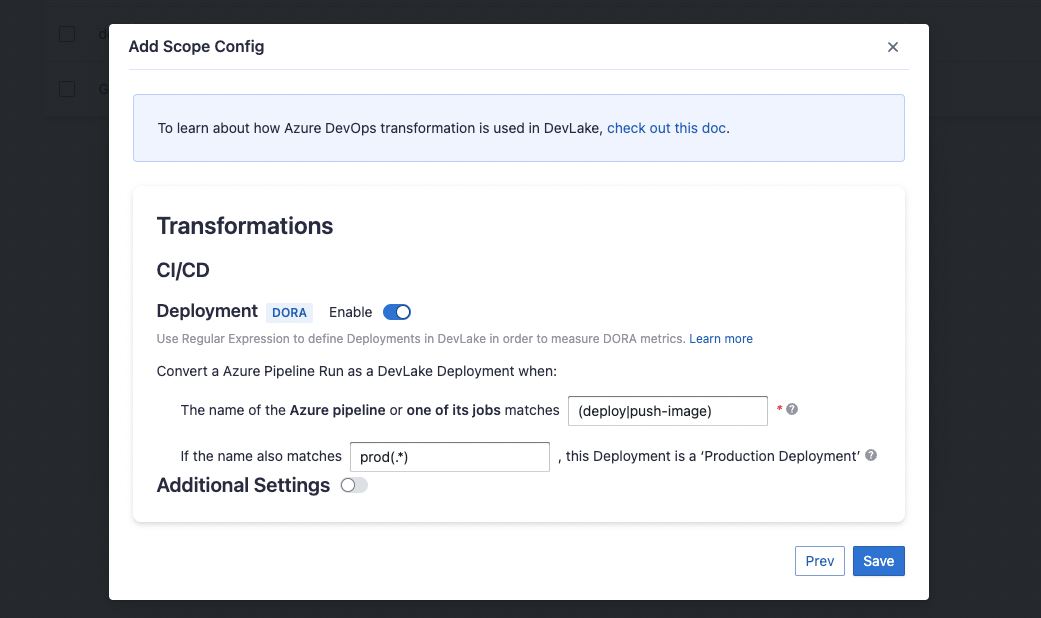
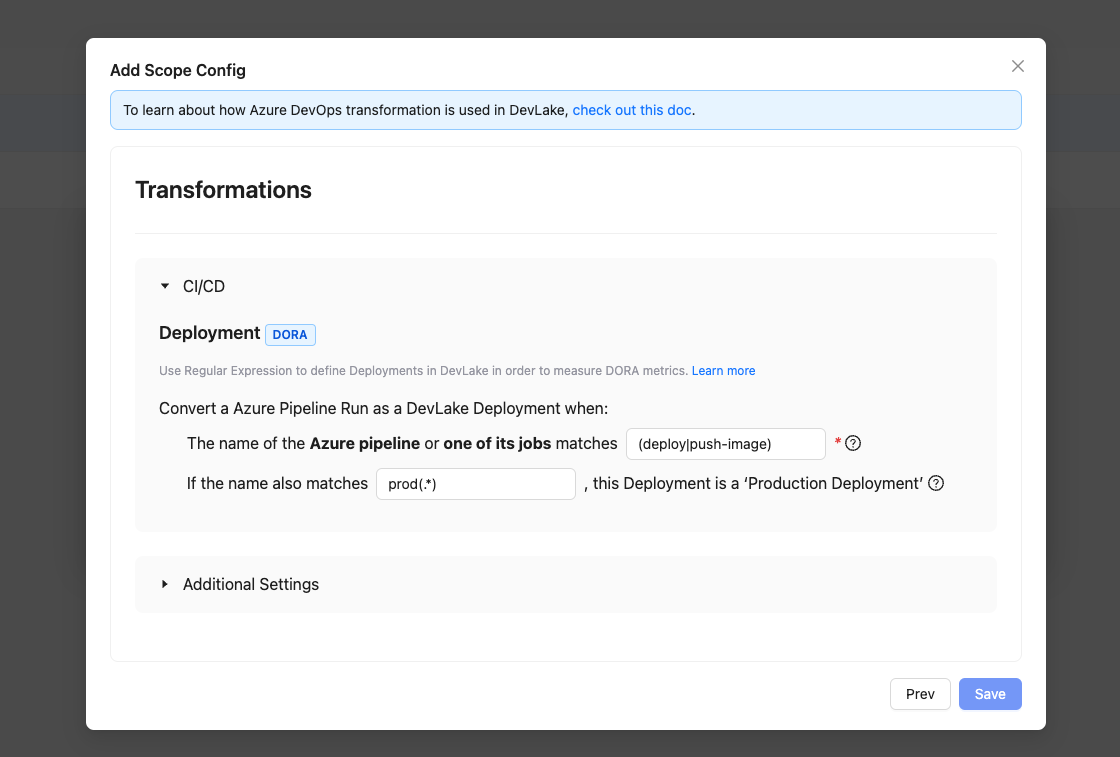
docs: update azure transformations (#727)

diff --git a/docs/Configuration/AzureDevOps.md b/docs/Configuration/AzureDevOps.md
@@ -54,12 +54,20 @@ Scope config contains two parts:
   - Cross Domain: Azure accounts, etc.
 - The transformations on the Azure DevOps data you are going to collect. 
 
-
-The transformations are mainly used for calculating [DORA metrics](../DORA.md), so DevLake needs to know what are `deployments` in your Azure Pipelines. You can configure:
-    - Regex for `Deployments`: Azure DevOps pipeline or one of its jobs whose names match this regex will be registered as deployments in DevLake
-    - Regex for `Production` environment: Azure DevOps pipeline or one of its jobs whose names match this regex will be considered as a PRODUCTION deployment.
-
 ![azuredevops-set-transformation](images/azuredevops-set-transformation.png)
+
+#### CI/CD
+
+To effectively measure [DORA metrics](../DORA.md) through Azure DevOps, it is necessary to define the concept of a 'deployment'. DevLake considers an Azure Pipeline Run (see the blue rectangle) as a DevLake deployment using specific conditions expressed through regular expressions (regex):
+
+- Deployment: The provided regex should match either the name of the Azure pipeline (see the red rectangle) that the pipeline run belongs to or any of the job display names (see the yellow rectangle) associated with the pipeline run. This will designate it as a deployment. For example, if the deployment pipeline is named 'build-and-push-image', you can input (push-image) as the regex. To ensure case insensitivity, include (?i) before the regex.
+- Production: The given regex should match either the pipeline run's name or any of its job display names to classify it as a deployment within the production environment. For instance, if the deployment pipeline is named 'build-to-prod', you can input (prod) as the regex. To ensure case insensitivity, include (?i) before the regex.
+
+![azure-pipeline](images/azuredevops-ui-pipeline.png)
+![azure-job](images/azuredevops-ui-job.png)
+
+
+#### Additional Settings
 
 The additional settings for transformations are RefDiff options:
 - Tags Limit: the number of tags to compare.
